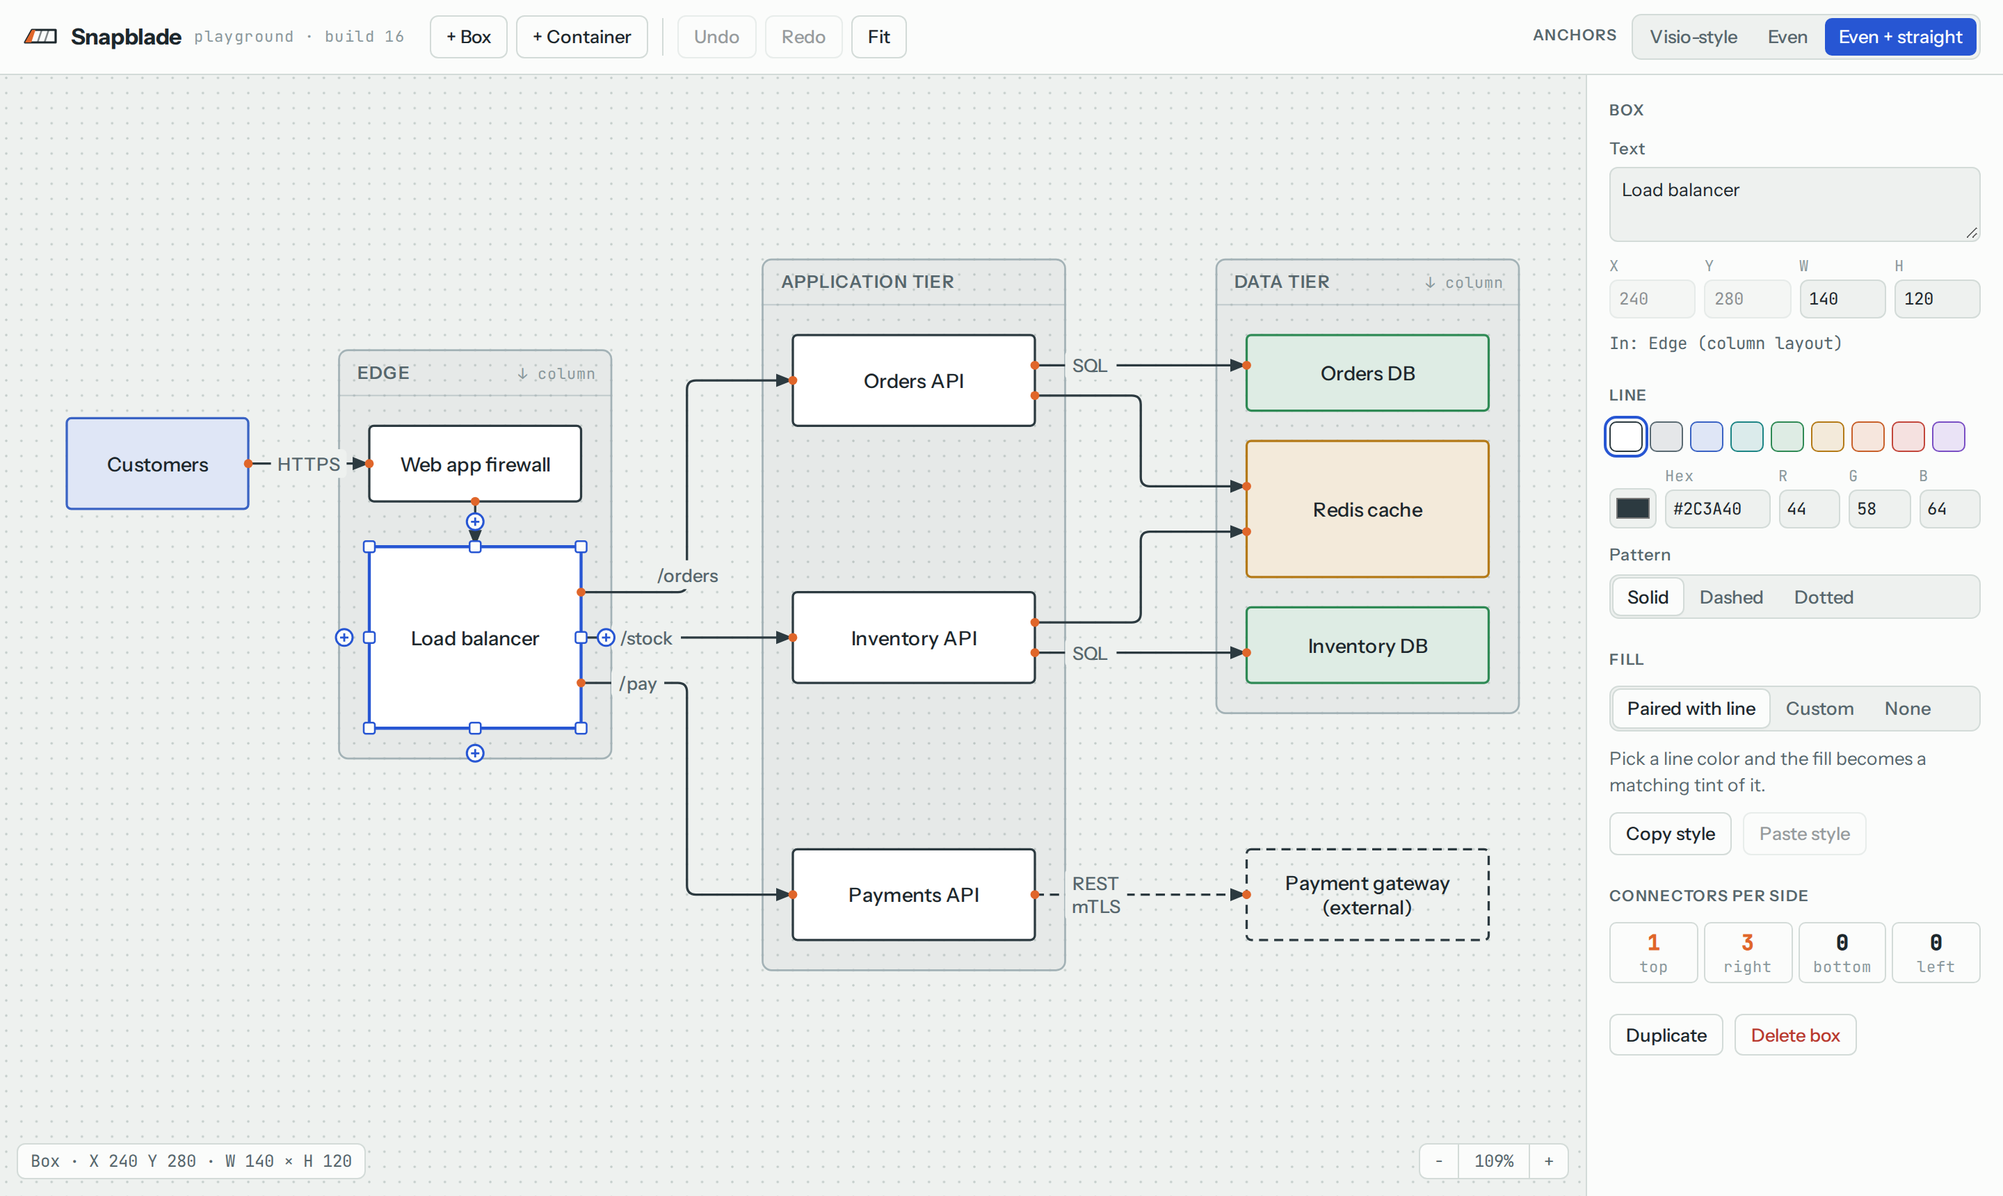
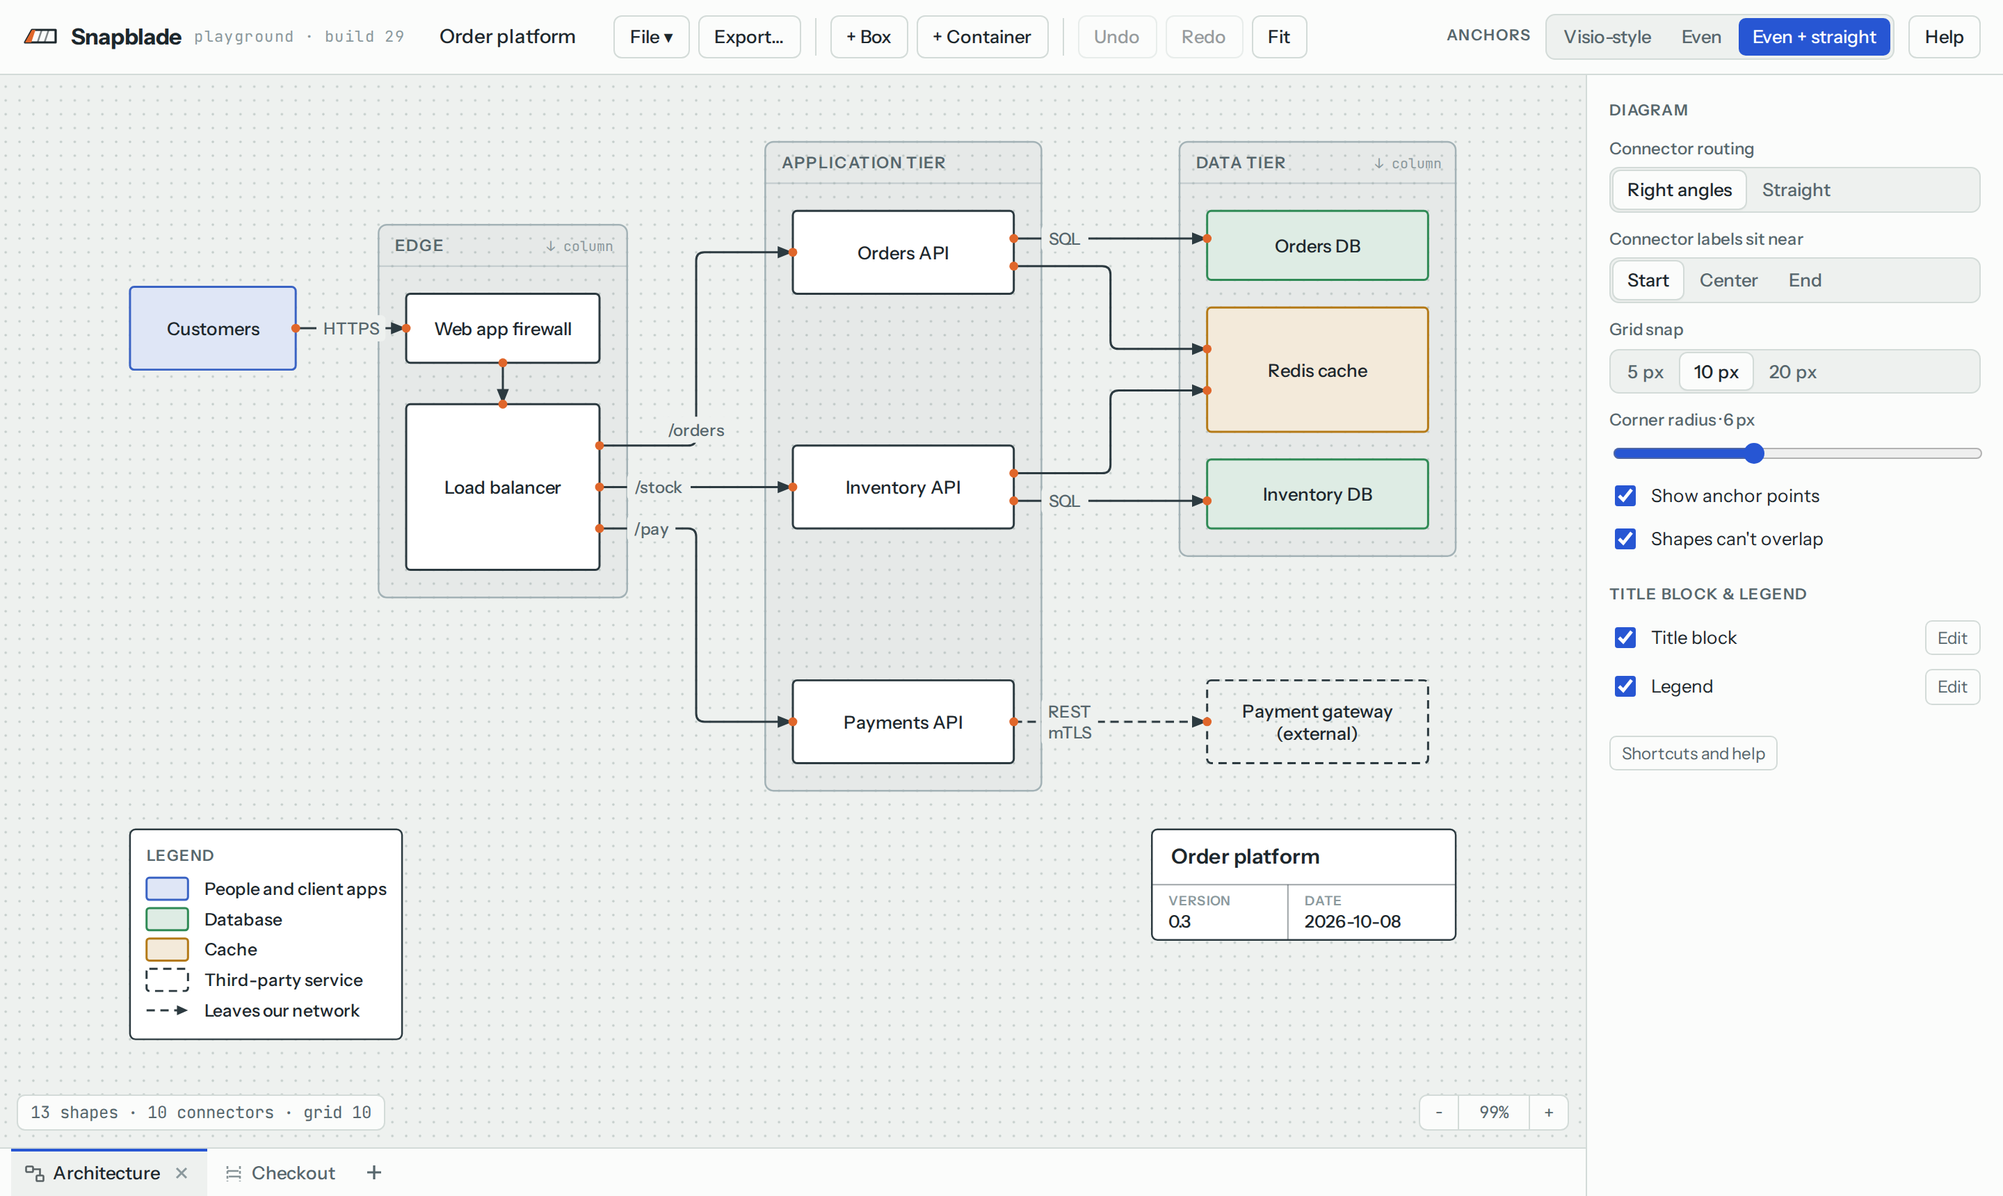
Docs: README, Help and llms.txt current for sequence diagrams and tabs
README: Arrange, Sequence diagrams and Tabs in Features, new Getting
started rows, a Privacy section that lists every network request
(including Google Fonts on every visit), current test descriptions, and
new screenshots (architecture with tabs, and a sequence diagram).
Help: the guide's overview, Files and Diagram settings sections cover
tabs and both kinds of diagram; Shortcuts adds quick entry, the Enter
chain and tab keys; Things to try adds a tab step.
llms.txt: the intro, What to output and Checklist cover sequence
diagrams and multi-tab files. Build 30.

diff --git a/index.html b/index.html
@@ -376,7 +376,7 @@ dl.keys dd { margin: 0; }
         <path d="M11 17.5 L14 8.5 M16 17.5 L19 8.5" stroke="currentColor" stroke-width="1.2" opacity=".55"/>
         <path d="M2 17.5 L7 8.5 H9.5 L6.5 17.5 Z" fill="var(--port)"/>
       </svg>
-      Snapblade <span class="tag">playground &middot; build 29</span>
+      Snapblade <span class="tag">playground &middot; build 30</span>
     </div>
     <div class="doc">
       <input id="docName" class="docname" value="Untitled diagram" aria-label="Diagram name" spellcheck="false" autocomplete="off">
@@ -1840,7 +1840,7 @@ function agentSpec() {
 Snapblade is a browser editor for box-and-line diagrams (architecture, systems, data flows) and sequence diagrams: ${APP_URL}
 You write a diagram as JSON. The user saves your answer as a file ending in \`.snapblade\` (or \`.json\`) and opens it in Snapblade (File > Open, or drop it on the canvas).
 
-You decide what the shapes are and where they go. Snapblade draws the connectors itself: it picks the sides, spaces the anchor points, routes right-angled lines around the shapes and places the labels. So give every shape a sensible position and size, and leave the connector details on automatic.
+In a box diagram you decide what the shapes are and where they go. Snapblade draws the connectors itself: it picks the sides, spaces the anchor points, routes right-angled lines around the shapes and places the labels. So give every shape a sensible position and size, and leave the connector details on automatic. A sequence diagram has no positions at all: you list the participants and the messages in order, and Snapblade lays it out (see Sequence diagrams). One file can also hold several diagrams as tabs (see the last section).
 
 These instructions are generated from the app's own rules, so they always match the current version.
 
@@ -1850,9 +1850,9 @@ One JSON object and nothing else (no comments, no trailing commas), in a single 
 
     {"format": "snapblade", "version": 1, "diagram": {"nodes": [...], "edges": [...], "settings": {...}, "title": {...}, "legend": {...}}}
 
-Only \`nodes\` and \`edges\` are required. Anything missing gets its default. Anything not described here, or not one of the listed values, is dropped or reset to its default when the file is opened.
+That is a box diagram, where only \`nodes\` and \`edges\` are required. A sequence diagram puts \`"type": "sequence"\`, \`parts\` and \`rows\` in \`diagram\` instead of \`nodes\` and \`edges\`. For several diagrams in one file, use version 2 with a \`pages\` list. Anything missing gets its default. Anything not described here, or not one of the listed values, is dropped or reset to its default when the file is opened.
 
-## Coordinates
+## Coordinates (box diagrams)
 
 Pixels. \`x\` grows to the right and \`y\` grows downward; \`x\` and \`y\` are a shape's top-left corner. Positions must be within ${-MAX_POS} to ${MAX_POS}, sizes from 1 to ${MAX_SIZE}. Use multiples of 10.
 
@@ -1930,6 +1930,8 @@ ${Object.entries(settingsDocs()).map(([k, d]) => `- \x60${k}\x60: ${d}`).join('\
 
 - Valid JSON. Every id unique. Every \`from.node\`, \`to.node\` and \`parent\` names an existing shape, and every \`parent\` is a \`"group"\`.
 - No two shapes overlap or sit closer than ${WALL} px, except a container and the shapes inside it. Opening a file never moves anything, so this is up to you.
+- In a sequence diagram: every \`from\`, \`to\` and note \`on\` names a participant in \`parts\`, ids are unique across participants and rows, and each reply comes right after its call.
+- With tabs: version 2, a \`pages\` list, and each page's \`diagram\` follows the rules above.
 - Only the fields and values described here.
 
 ## Example
@@ -3463,7 +3465,7 @@ function guideHtml() {
   const b = list => or(list.map(l => `<b>${l}</b>`)), labels = list => list.map(o => o[1]);
   const icons = keys => keys.map(k => `<span class="gicon"><svg viewBox="0 0 20 16" aria-hidden="true">${ARRANGE_ICONS[k]}</svg>${lineUpName(k)}</span>`).join('');
   const sections = [
-    ['around', 'Getting around', `<p>The canvas is in the middle. The panel on the right shows whatever is selected, or the diagram's settings when nothing is.</p><ul>
+    ['around', 'Getting around', `<p>The canvas is in the middle. The panel on the right shows whatever is selected, or the diagram's settings when nothing is. Tabs along the bottom hold the file's diagrams: box diagrams (boxes, containers and connectors) and sequence diagrams.</p><ul>
       <li>Pan with right-drag, middle-drag or Space+drag. The wheel zooms toward the cursor, and Shift+wheel scrolls sideways. <b>Fit</b> frames the whole diagram; the buttons in the bottom-right corner zoom in and out, and the percentage between them goes back to 100%.</li>
       <li>Click a shape or connector to select it. Drag on empty canvas to draw a selection box around shapes; Shift- or Ctrl-click adds or removes one. Ctrl+A selects everything.</li>
       <li><b>Undo</b> and <b>Redo</b> (Ctrl+Z and Ctrl+Y) cover every change to the diagram.</li>
@@ -3507,7 +3509,7 @@ function guideHtml() {
       <li>The title block has a <b>Title</b> (the diagram's name if empty), <b>Version</b>, <b>Date</b> (<b>Set date to today</b>) and <b>Author</b>, which is remembered for new diagrams. Empty fields are left out.</li>
       <li>The legend makes its own <b>Rows</b>, one per color and line style in use. Type what each one means; <b>Hide</b> leaves a row out. Its <b>Heading</b> can be changed.</li>
       <li><b>Position</b>: ${b(labels(CORNERS))}, or drag the block toward a corner. Blocks sit just outside the diagram and never cover it. <b>Hide title block</b> and <b>Hide legend</b> turn them off.</li></ul>`],
-    ['settings', 'Diagram settings', `<p>With nothing selected, the <b>Diagram</b> panel holds: <b>Connector routing</b> (${b(labels(ROUTINGS))}), <b>Connector labels sit near</b> (${b(labels(LABEL_SPOTS))}), <b>Grid snap</b> (${b(labels(GRIDS))}, the step shapes move in), <b>Corner radius</b>, <b>Show anchor points</b> and <b>Shapes can't overlap</b>.</p>`],
+    ['settings', 'Diagram settings', `<p>With nothing selected, a box diagram's <b>Diagram</b> panel holds: <b>Connector routing</b> (${b(labels(ROUTINGS))}), <b>Connector labels sit near</b> (${b(labels(LABEL_SPOTS))}), <b>Grid snap</b> (${b(labels(GRIDS))}, the step shapes move in), <b>Corner radius</b>, <b>Show anchor points</b> and <b>Shapes can't overlap</b>. A sequence diagram's settings are under Sequence diagrams. Settings belong to the tab they're set on.</p>`],
     ['seq', 'Sequence diagrams', `<p><b>New sequence diagram</b> in the File menu starts one. Participants run left to right and messages top to bottom. Nothing is placed by hand: columns are as wide as the labels between them need, and rows are evenly spaced.</p><ul>
       <li><b>+ Participant</b> adds a participant after the selected one; double-clicking empty canvas adds one there. Drag a head sideways to reorder; the messages follow.</li>
       <li>Drag from one lifeline to another to add a message at that row (rows below shift down). Drag along a lifeline and let go on it for a self-message. Type the label and press Enter: then click the lifeline the next message goes to, and keep going. Esc stops.</li>
@@ -3525,7 +3527,7 @@ function guideHtml() {
       <li><b>Delete tab</b> (the × on the open tab) asks first when the tab has something on it, because undo can't bring a tab back.</li>
       <li>Copy and paste work between tabs. Saving saves every tab, and the file opens at the tab you were on.</li></ul>`],
     ['files', 'Files', `<ul>
-      <li>Everything is kept in this browser as you work. The <b>File</b> menu has <b>New diagram</b>, <b>Open</b> (Ctrl+O), <b>Save</b> (Ctrl+S) and <b>Save as</b> (Ctrl+Shift+S), for <code>.snapblade</code> files. You can also drop a file onto the canvas.</li>
+      <li>Everything is kept in this browser as you work. The <b>File</b> menu has <b>New diagram</b>, <b>New sequence diagram</b>, <b>Open</b> (Ctrl+O), <b>Save</b> (Ctrl+S) and <b>Save as</b> (Ctrl+Shift+S), for <code>.snapblade</code> files. A file holds all of its tabs. You can also drop a file onto the canvas.</li>
       <li>In Chrome and Edge, Save writes back to the same file; other browsers download it. A dot next to the name means changes not yet saved to a file. Click the name to rename the diagram.</li></ul>`],
     ['export', 'Export', `<p><b>Export</b> makes a picture of the diagram, with a preview.</p><ul>
       <li><b>Format</b>: ${b(labels(EXPORT_FORMATS))}. <b>Theme</b>: ${b(labels(EXPORT_THEMES))}. <b>Background</b>: ${b(labels(EXPORT_BACKGROUNDS))}.</li>
@@ -3548,7 +3550,7 @@ function helpHtml() {
     <div class="row"><button class="btn primary" type="button" data-copy-spec>Copy instructions</button></div>
     <pre class="spec">${esc(agentSpec())}</pre>`,
     keys: `<dl class="keys">
-      <dt>Double-click</dt><dd>Rename a box, container or connector, or add a box on empty canvas (a participant in a sequence diagram)</dd>
+      <dt>Double-click</dt><dd>Rename a box, container or connector, or add a box on empty canvas (a participant in a sequence diagram). On the open tab: rename the tab</dd>
       <dt>F2 / Enter</dt><dd>Rename the selection. Or just start typing to replace its text</dd>
       <dt>Arrow keys</dt><dd>Nudge by one grid step (Shift: 1 px). In a sequence diagram, move the selected row up or down, or participant left or right</dd>
       <dt>Alt+drag</dt><dd>Move or resize a shape so it overlaps others (shapes otherwise stay ${WALL} px apart)</dd>
@@ -3561,6 +3563,9 @@ function helpHtml() {
       <dt>Ctrl+Shift+C / V</dt><dd>Copy a shape's or connector's colors, paste them onto the selection</dd>
       <dt>Wheel</dt><dd>Zoom toward the cursor (Shift+wheel scrolls sideways)</dd>
       <dt>Right-drag</dt><dd>Pan (middle-drag or Space+drag also work)</dd>
+      <dt>Typing</dt><dd>In a sequence diagram with nothing selected, goes to the quick-entry box (A -&gt; B : label, then Enter)</dd>
+      <dt>Enter</dt><dd>After labeling a new message: click the lifeline the next one goes to. Esc stops</dd>
+      <dt>F2 on a tab</dt><dd>Rename it. ←/→ move between tabs</dd>
       <dt>F1 / ?</dt><dd>Open this help (? only with nothing selected)</dd>
     </dl>`,
     try: `<p>These steps use the sample diagram.</p>
@@ -3584,6 +3589,7 @@ function helpHtml() {
       <li>Drag <b>Validate cart</b> down a few rows, or select it and press the arrow keys.</li>
       <li>Click in the box at the top of the canvas and type <code>Orders API --&gt; Customer : email</code>, then Enter.</li>
       <li>Select a message and switch its Kind between Sync, Async and Reply.</li>
+      <li>Click the + at the end of the tabs and add a Box diagram tab: one file can hold the architecture and its sequence diagrams. Double-click a tab to rename it.</li>
     </ol>
     <div class="row"><button class="btn" type="button" data-choice="seqsample">Load the sequence sample</button><span class="desc">Replaces the canvas. Ctrl+Z undoes it.</span></div>`,
     anchors: `<p>Choose a mode with the Anchors buttons in the top bar. It decides where connectors attach to a box's side.</p>

diff --git a/README.md b/README.md
@@ -6,7 +6,11 @@
 
 You place the boxes. Snapblade keeps the connectors clean: anchor points evenly spaced along each side, lines straight wherever the boxes allow, bends centered in the gap between boxes, and parallel connectors bundled without crossing. When you resize or move something, everything re-tidies, instead of leaving you to re-glue a dozen arrows by hand.
 
+Sequence diagrams go further: you never place anything. List the participants and the messages, by dragging between lifelines or typing PlantUML-style lines, and Snapblade sizes the columns and spaces the rows. Keep the architecture and its sequence diagrams together as tabs in one file.
+
 ![Snapblade showing an application architecture diagram](docs/screenshot.png)
+
+![A sequence diagram for the same system, on its own tab](docs/sequence.png)
 
 ## Why
 
@@ -20,12 +24,15 @@ Manual tools (Visio, draw.io, Lucidchart) give you full control, and then you sp
 - **Connect where you drop.** Drag a connector onto a shape: near an edge pins that side (the side lights up), in the middle the side is picked automatically (the whole shape lights up). A dot shows where the end will land. Dragging an existing connector's end works the same way.
 - **Shapes that can't overlap.** Shapes side by side stay at least 20 px apart, so connectors always have room between them. A dragged shape stops at the wall and slides along it, a resized edge stops at it, and a container that grows pushes its neighbors out of the way. Hold Alt to overlap anyway, or turn it off for the diagram.
 - **Connector labels.** Placed near the start, center or end, and kept clear of boxes, other labels and other connectors.
+- **Arrange.** Line a selection up as a row or a column (tops, middles, bottoms, lefts, centers or rights) with kept, even or fixed spacing, without ever stacking shapes on top of each other. Straighten moves shapes just enough that their connectors run straight.
+- **Sequence diagrams.** Participants and messages laid out automatically: columns as wide as their labels need, rows evenly spaced. Drag from one lifeline to another to add a message at that row, drag rows and participants to reorder, and press Enter after a label to go straight on to the next message. Sync, async and reply messages, self-messages, notes beside or across lifelines, message numbering. A quick-entry box reads PlantUML (`A -> B : label`, `participant`, `note`, `autonumber`), so you can type a flow or paste an existing `@startuml` diagram.
+- **Tabs.** One file holds several diagrams, box or sequence, on tabs along the bottom. Add, duplicate, rename and drag tabs to reorder; each keeps its own undo history, view, title block and legend. Copy and paste work between tabs.
 - **Styling.** Line and fill colors from presets, a picker, hex or RGB, with fills that pair automatically as a tint of the line color. Solid, dashed and dotted lines. Light and dark themes.
-- **Fast editing.** Multi-select, make same size, match colors, copy and paste style, copy, paste, duplicate, undo and redo.
+- **Fast editing.** Multi-select, same size, match colors, copy and paste style, copy, paste, duplicate, undo and redo.
 - **Title block and legend.** Turn on a drawing-style title block (title, version, date, author) and a legend that builds itself from the colors and line styles in use. You just say what each one means. Both sit just outside the diagram in the corner you pick, and stay put as the diagram changes.
-- **Diagrams from an AI assistant.** Snapblade files are plain JSON. Give an AI assistant the instructions at [llms.txt](https://mmunchinski.github.io/snapblade/llms.txt) (also in Help, under For AI agents, with a Copy button), describe the diagram, and open the file it writes. The instructions are generated from the app's own rules, so they match the current version.
+- **Diagrams from an AI assistant.** Snapblade files are plain JSON. Give an AI assistant the instructions at [llms.txt](https://mmunchinski.github.io/snapblade/llms.txt) (also in Help, under For AI agents, with a Copy button), describe the diagram, and open the file it writes: a box diagram, a sequence diagram, or several of them as tabs. The instructions are generated from the app's own rules, so they match the current version.
 - **Files.** Save and open `.snapblade` files (plain JSON). In Chrome and Edge, Save writes straight back to the same file; other browsers download it. You can also drop a file onto the canvas to open it.
-- **Export.** SVG, PNG (1×, 2× or 3×) and vector PDF (fit to the diagram, Letter or A4), in light or dark, on white, the canvas color or a transparent background, for the whole diagram or just the selection. PNG and SVG can go straight to the clipboard for pasting into slides, chat or wikis.
+- **Export.** SVG, PNG (1×, 2× or 3×) and vector PDF (fit to the diagram, Letter or A4), in light or dark, on white, the canvas color or a transparent background, for the whole diagram or just the selection. Export the open tab or all of them: a PDF with a page per tab, or a file per tab. PNG and SVG can go straight to the clipboard for pasting into slides, chat or wikis.
 
 ## Getting started
 
@@ -35,12 +42,16 @@ Use it at **https://mmunchinski.github.io/snapblade/**, or open `index.html` fro
 |---|---|
 | Add a box | Double-click empty canvas, or **+ Box** |
 | Connect two boxes | Hover a box, drag one of its **+** handles onto another box |
+| Start a sequence diagram | File > New sequence diagram, or **+** on the tab strip |
+| Add a message | Drag from one lifeline to another, or type `A -> B : label` in the box at the top and press Enter |
 | Rename | Double-click, press F2, or select and start typing |
 | Select several | Drag a box on empty canvas, or Shift/Ctrl-click |
 | Pan / zoom | Right-drag (or middle-drag, or Space+drag) / mouse wheel |
 | Copy, paste, duplicate | Ctrl+C, Ctrl+V, Ctrl+D |
 | Copy / paste style | Ctrl+Shift+C, Ctrl+Shift+V |
 | Save / open a file | Ctrl+S (Ctrl+Shift+S to save as), Ctrl+O |
+| Rename a tab | Double-click it |
+| Everything else | Help (F1) has a guide to every control |
 
 ## Development
 
@@ -50,10 +61,12 @@ npx playwright install chromium   # first time only
 npm test                          # layout tests (Node) + interaction tests (headless Chromium)
 ```
 
-- `tests/layout.test.mjs` exercises the layout engine (anchors, routing, bundling, labels) without a browser.
-- `tests/browser.test.mjs` drives the real app with mouse and keyboard input.
+- `tests/layout.test.mjs` exercises the core without a browser: anchors, routing, bundling, labels, arrange, hard walls, sequence layout and quick entry, the file format and the checks every opened file goes through.
+- `tests/browser.test.mjs` drives the real app with mouse and keyboard input, including files, exports, tabs and hostile files.
 
-PDF export loads two open-source libraries ([jsPDF](https://github.com/parallax/jsPDF) and [svg2pdf.js](https://github.com/yWorks/svg2pdf.js)) from jsDelivr the first time you use it, and SVG/PNG exports embed the Instrument Sans font from Google Fonts. Everything else works offline.
+## Privacy
+
+Nothing you draw leaves your browser. Your work is kept in the browser's local storage, and files are only saved where you save them. The only network requests are downloads: the page itself, its fonts from Google Fonts (Instrument Sans and JetBrains Mono, on every visit), and, the first time you export a PDF, two open-source libraries ([jsPDF](https://github.com/parallax/jsPDF) and [svg2pdf.js](https://github.com/yWorks/svg2pdf.js)) from jsDelivr, checked against pinned hashes. SVG and PNG exports embed Instrument Sans so they look the same everywhere. If the fonts can't load, the app falls back to system fonts.
 
 ## License
 
